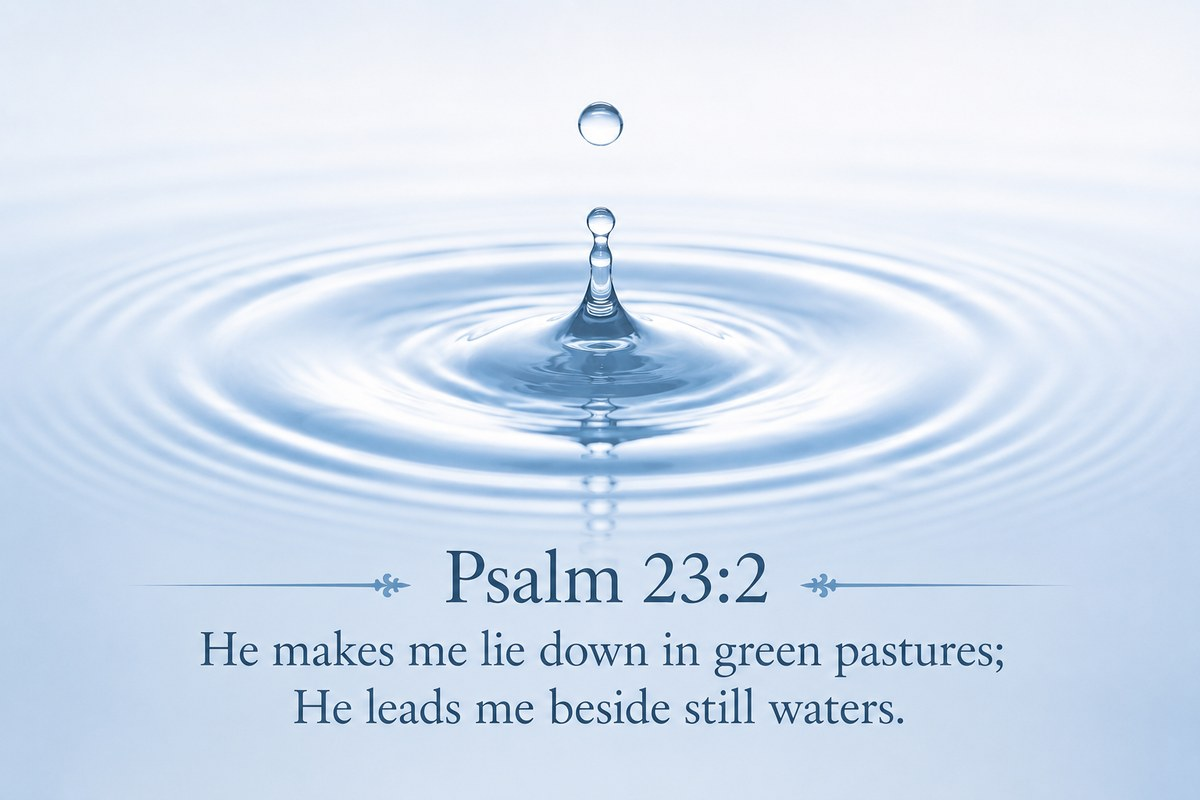
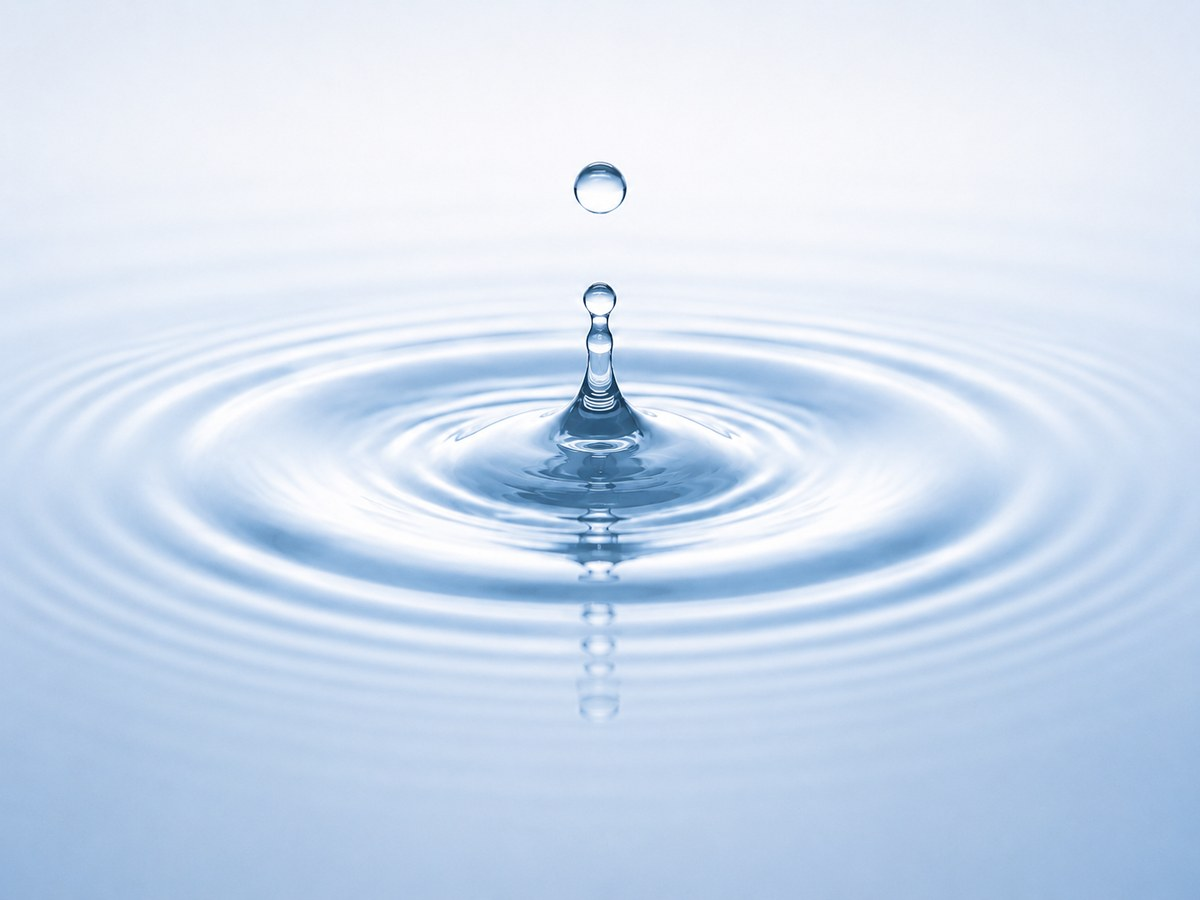
Enlarge hero + provider photos, use text-free droplet image
- Swap in the verse-free water-droplet hero image
- Widen the hero media column (.85fr -> .95fr) so the hero photo is a bit larger
- Bump Laura Gonzales provider card from 300px to 330px on desktop

diff --git a/styles.css b/styles.css
@@ -244,7 +244,7 @@ h3{ font-family:var(--serif); font-size:1.5rem; }
 }
 .hero-grid{
   max-width:var(--wrap); margin:0 auto; position:relative; z-index:2;
-  display:grid; grid-template-columns:1.15fr .85fr; gap:clamp(2rem,5vw,4.5rem);
+  display:grid; grid-template-columns:1.05fr .95fr; gap:clamp(2rem,5vw,4.5rem);
   align-items:center;
 }
 .eyebrow{
@@ -375,7 +375,7 @@ h3{ font-family:var(--serif); font-size:1.5rem; }
 /* provider photo card (portrait + name badge; graceful monogram until the
    real photo is dropped at assets/laura-gonzales.jpg) */
 .provider-card{
-  position:relative; margin:0; aspect-ratio:4/5; max-width:300px;
+  position:relative; margin:0; aspect-ratio:4/5; max-width:330px;
   border-radius:26px; overflow:hidden;
   border:8px solid #fff; box-shadow:var(--shadow);
   background:linear-gradient(160deg,#dceaf0 0%,#c3d8e2 100%);